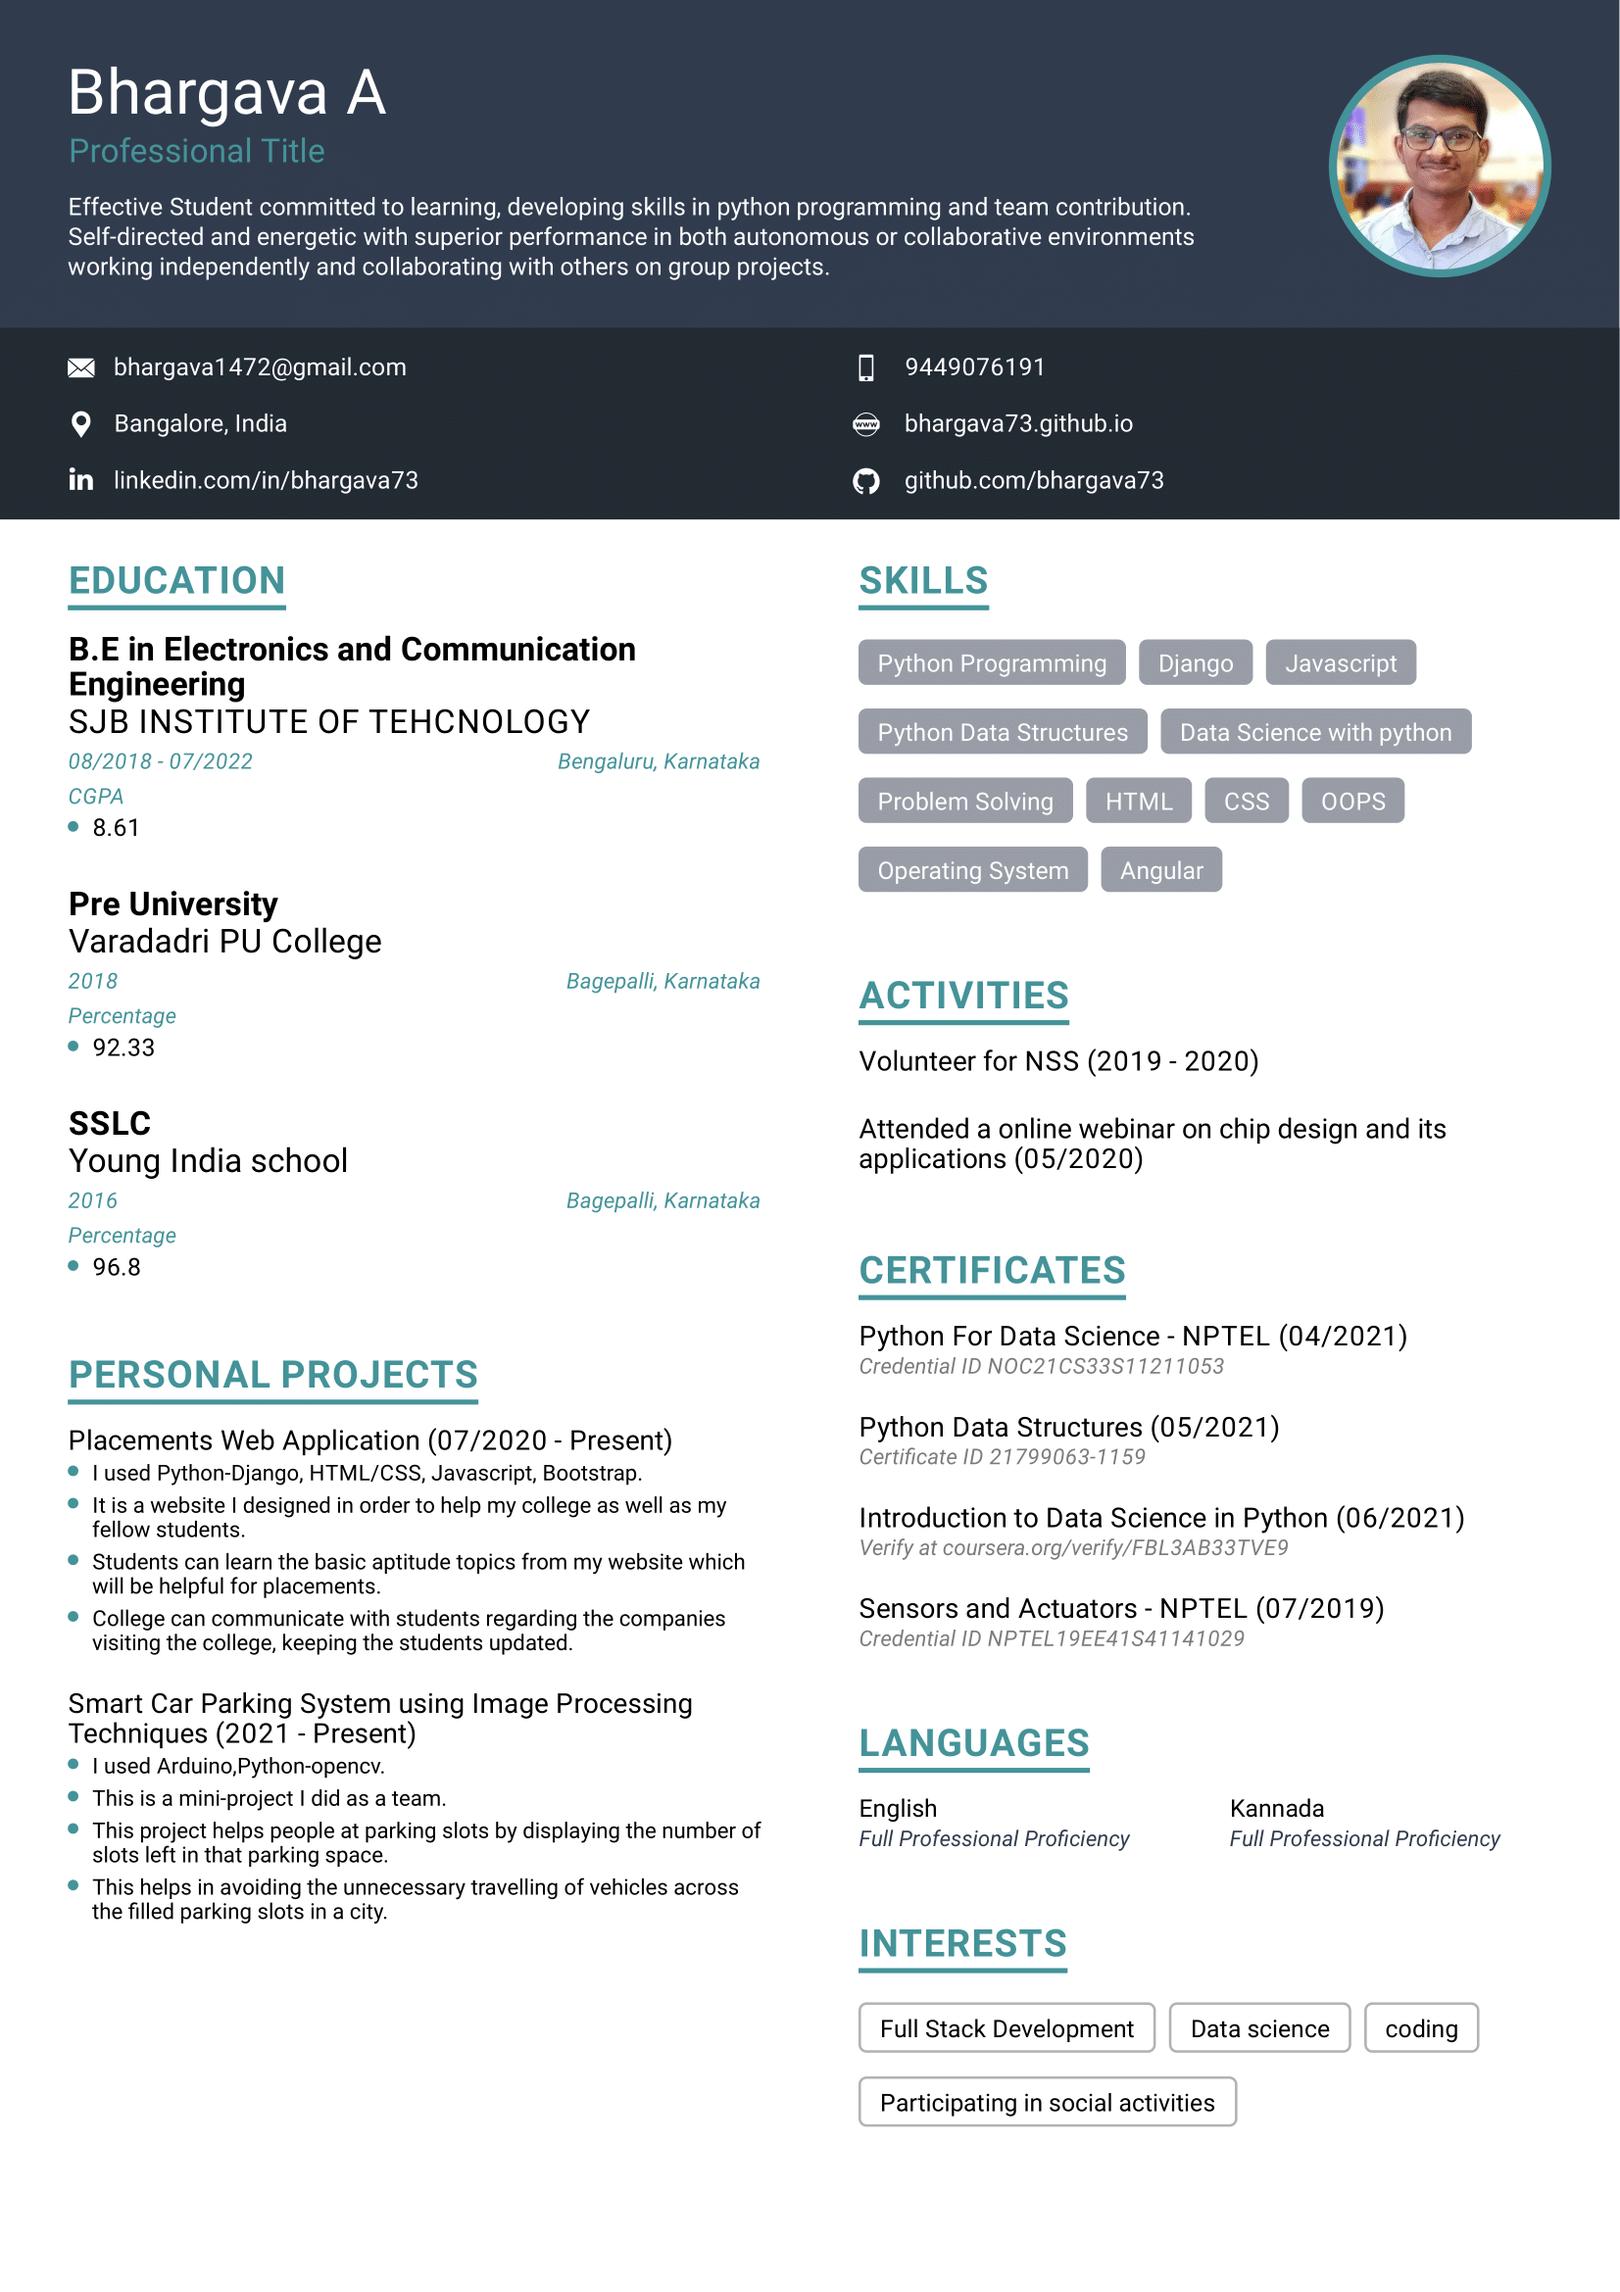
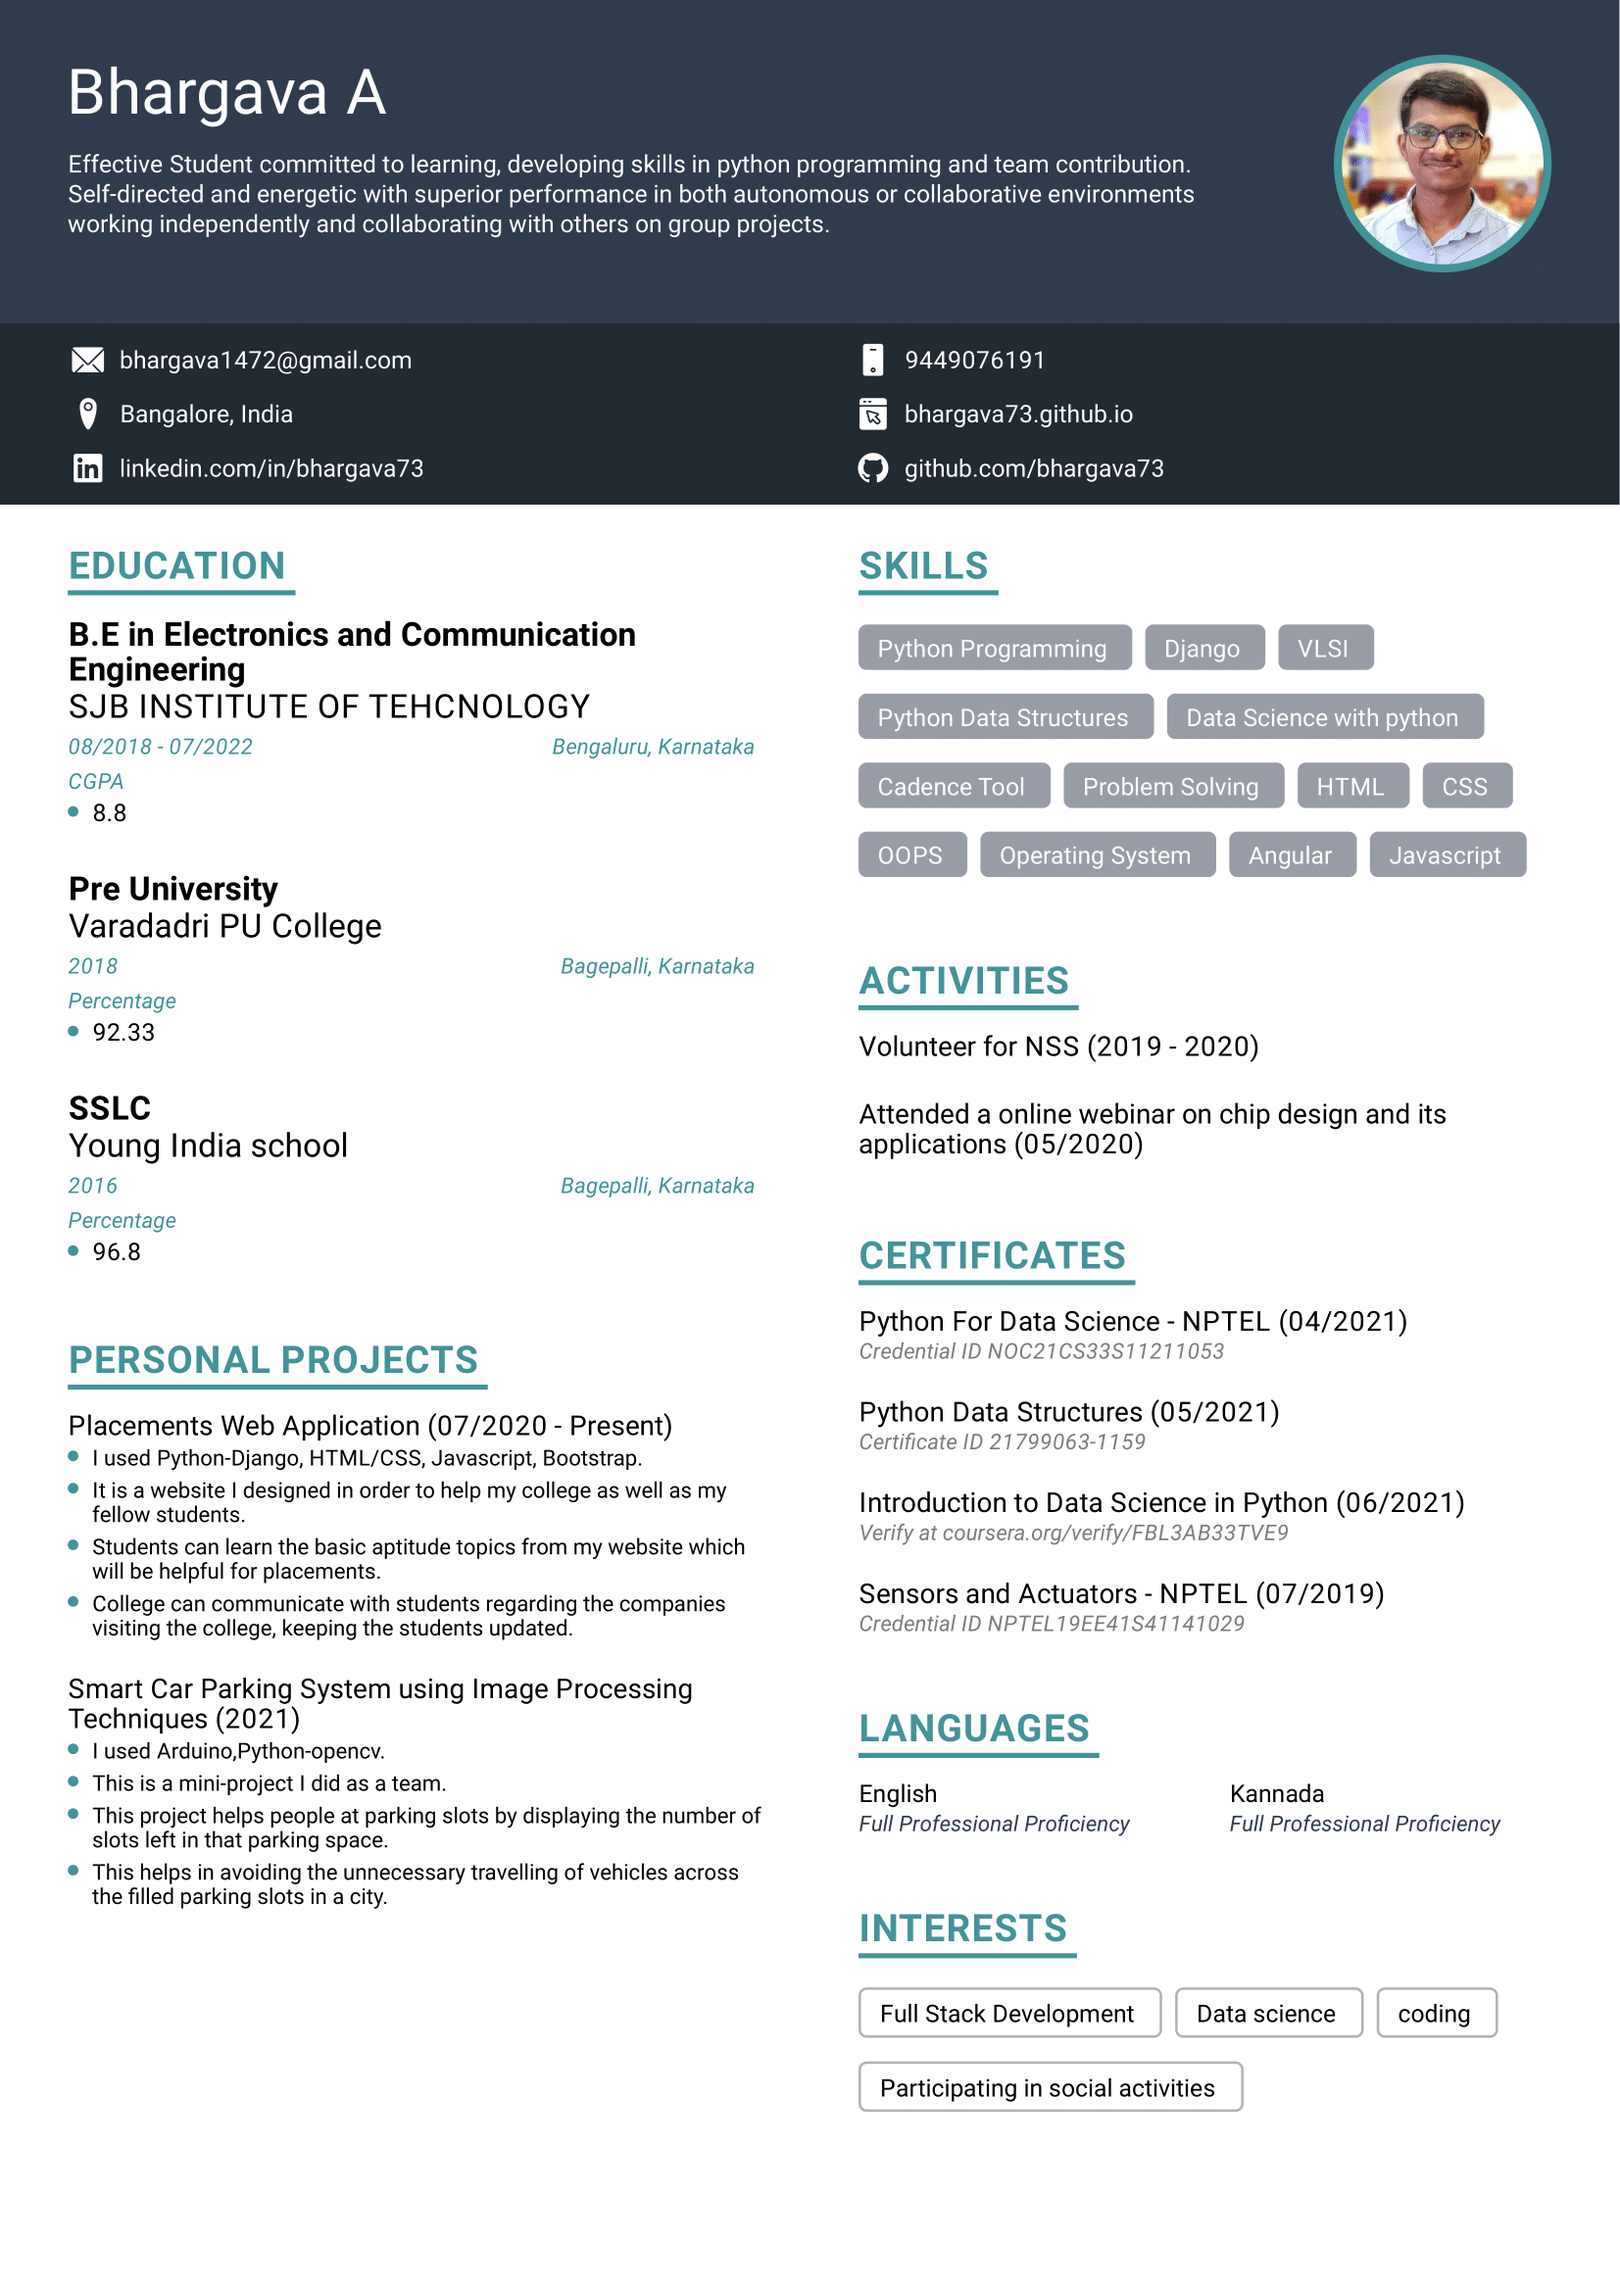
updated resume

diff --git a/index.html b/index.html
@@ -109,6 +109,8 @@
                 <p data-aos="flip-up">Django</p>
                 <p data-aos="flip-up">Data Structures with Python</p>
                 <p data-aos="flip-up">Data Science with Python</p>
+                <p data-aos="flip-up">VLSI</p>
+                <p data-aos="flip-up">Cadence Tool</p>
                 <p data-aos="flip-up">OOPS</p>
                 <p data-aos="flip-up">Problem Solving</p>
                 <p data-aos="flip-up">HTML/CSS</p>
@@ -157,6 +159,50 @@
             <h1 class="section-sub-title">My Projects</h1>
             <div class="timeline">
                 <div class="container">
+                    <div data-aos="fade-left" class="timeline-item">
+                        <div class="timeline-img"></div>
+                        <div class="timeline-content js--fadeInLeft">
+                            <div class="timeline-img-header">
+                                <img src="./media/mysite.png" alt="mysite"/>
+                            </div>
+                            <div class="date">07/2020 - Present</div>
+                            <h3 style="margin-top: 20px;">Placements Web Application</h3>
+                            <ul style="margin-top: 20px;">
+                                <ul style="padding-bottom: 10px;color:#777777">Tech stacks used -
+                                    <li style="color:#52b788;">Python-Django</li>
+                                    <li style="color:#52b788;">HTML/CSS/Javascript</li>
+                                </ul>
+                                <li>It is a website I designed in order to help my college as well as my fellow students.</li>
+                                <li>Students can learn the basic aptitude topics from my website which will be helpful for placements.</li>
+                                <li>College can communicate with students regarding the companies visiting the college, keeping the students updated.</li>
+                                <div style="margin-top: 20px;" class="bounce-right">
+                                    <a href="https://sjbit-placements.herokuapp.com/" target="_blank">View Live <i class="fa fa-arrow-right"></i></a>
+                                </div>
+                            </ul>
+                        </div>
+                    </div>
+                    <div data-aos="fade-right" class="timeline-item">
+                        <div class="timeline-img"></div>
+                        <div class="timeline-content js--fadeInLeft">
+                            <div class="timeline-img-header">
+                                <img src="./media/drawspace.png" alt="drawspace"/>
+                            </div>
+                            <div class="date">07/2021 - 08/2021</div>
+                            <h3 style="margin-top: 20px;">Drawspace</h3>
+                            <ul style="margin-top: 20px;">
+                                <ul style="padding-bottom: 10px;color:#777777">Tech stacks used -
+                                    <li style="color:#52b788;">Angular</li>
+                                    <li style="color:#52b788;">Firebase</li>
+                                </ul>
+                                <li>It is a web page where a user has to sign in through his Google account.</li>
+                                <li>After a user is logged in, he can draw anything on the canvas, add images to it.</li>
+                                <li>User can also share his canvas with a another registered User.</li>
+                                <div style="margin-top: 20px;" class="bounce-right">
+                                    <a href="https://drawspace73.web.app/" target="_blank">View Live <i class="fa fa-arrow-right"></i></a>
+                                </div>
+                            </ul>
+                        </div>
+                    </div>
                     <div data-aos="fade-left" class="timeline-item">
                         <div class="timeline-img"></div>
                         <div class="timeline-content js--fadeInLeft">
@@ -222,50 +268,6 @@
                             </ul>
                         </div>
                     </div> -->
-                    <div data-aos="fade-left" class="timeline-item">
-                        <div class="timeline-img"></div>
-                        <div class="timeline-content js--fadeInLeft">
-                            <div class="timeline-img-header">
-                                <img src="./media/drawspace.png" alt="drawspace"/>
-                            </div>
-                            <div class="date">07/2021 - 08/2021</div>
-                            <h3 style="margin-top: 20px;">Drawspace</h3>
-                            <ul style="margin-top: 20px;">
-                                <ul style="padding-bottom: 10px;color:#777777">Tech stacks used -
-                                    <li style="color:#52b788;">Angular</li>
-                                    <li style="color:#52b788;">Firebase</li>
-                                </ul>
-                                <li>It is a web page where a user has to sign in through his Google account.</li>
-                                <li>After a user is logged in, he can draw anything on the canvas, add images to it.</li>
-                                <li>User can also share his canvas with a another registered User.</li>
-                                <div style="margin-top: 20px;" class="bounce-right">
-                                    <a href="https://drawspace73.web.app/" target="_blank">View Live <i class="fa fa-arrow-right"></i></a>
-                                </div>
-                            </ul>
-                        </div>
-                    </div>
-                    <div data-aos="fade-right" class="timeline-item">
-                        <div class="timeline-img"></div>
-                        <div class="timeline-content js--fadeInLeft">
-                            <div class="timeline-img-header">
-                                <img src="./media/mysite.png" alt="mysite"/>
-                            </div>
-                            <div class="date">07/2020 - 07/2021</div>
-                            <h3 style="margin-top: 20px;">Placements Web Application</h3>
-                            <ul style="margin-top: 20px;">
-                                <ul style="padding-bottom: 10px;color:#777777">Tech stacks used -
-                                    <li style="color:#52b788;">Python-Django</li>
-                                    <li style="color:#52b788;">HTML/CSS/Javascript</li>
-                                </ul>
-                                <li>It is a website I designed in order to help my college as well as my fellow students.</li>
-                                <li>Students can learn the basic aptitude topics from my website which will be helpful for placements.</li>
-                                <li>College can communicate with students regarding the companies visiting the college, keeping the students updated.</li>
-                                <div style="margin-top: 20px;" class="bounce-right">
-                                    <a href="https://mysite73.herokuapp.com/" target="_blank">View Live <i class="fa fa-arrow-right"></i></a>
-                                </div>
-                            </ul>
-                        </div>
-                    </div>
                     <div data-aos="fade-left" class="timeline-item">
                         <div class="timeline-img"></div>
                         <div class="timeline-content js--fadeInLeft">
